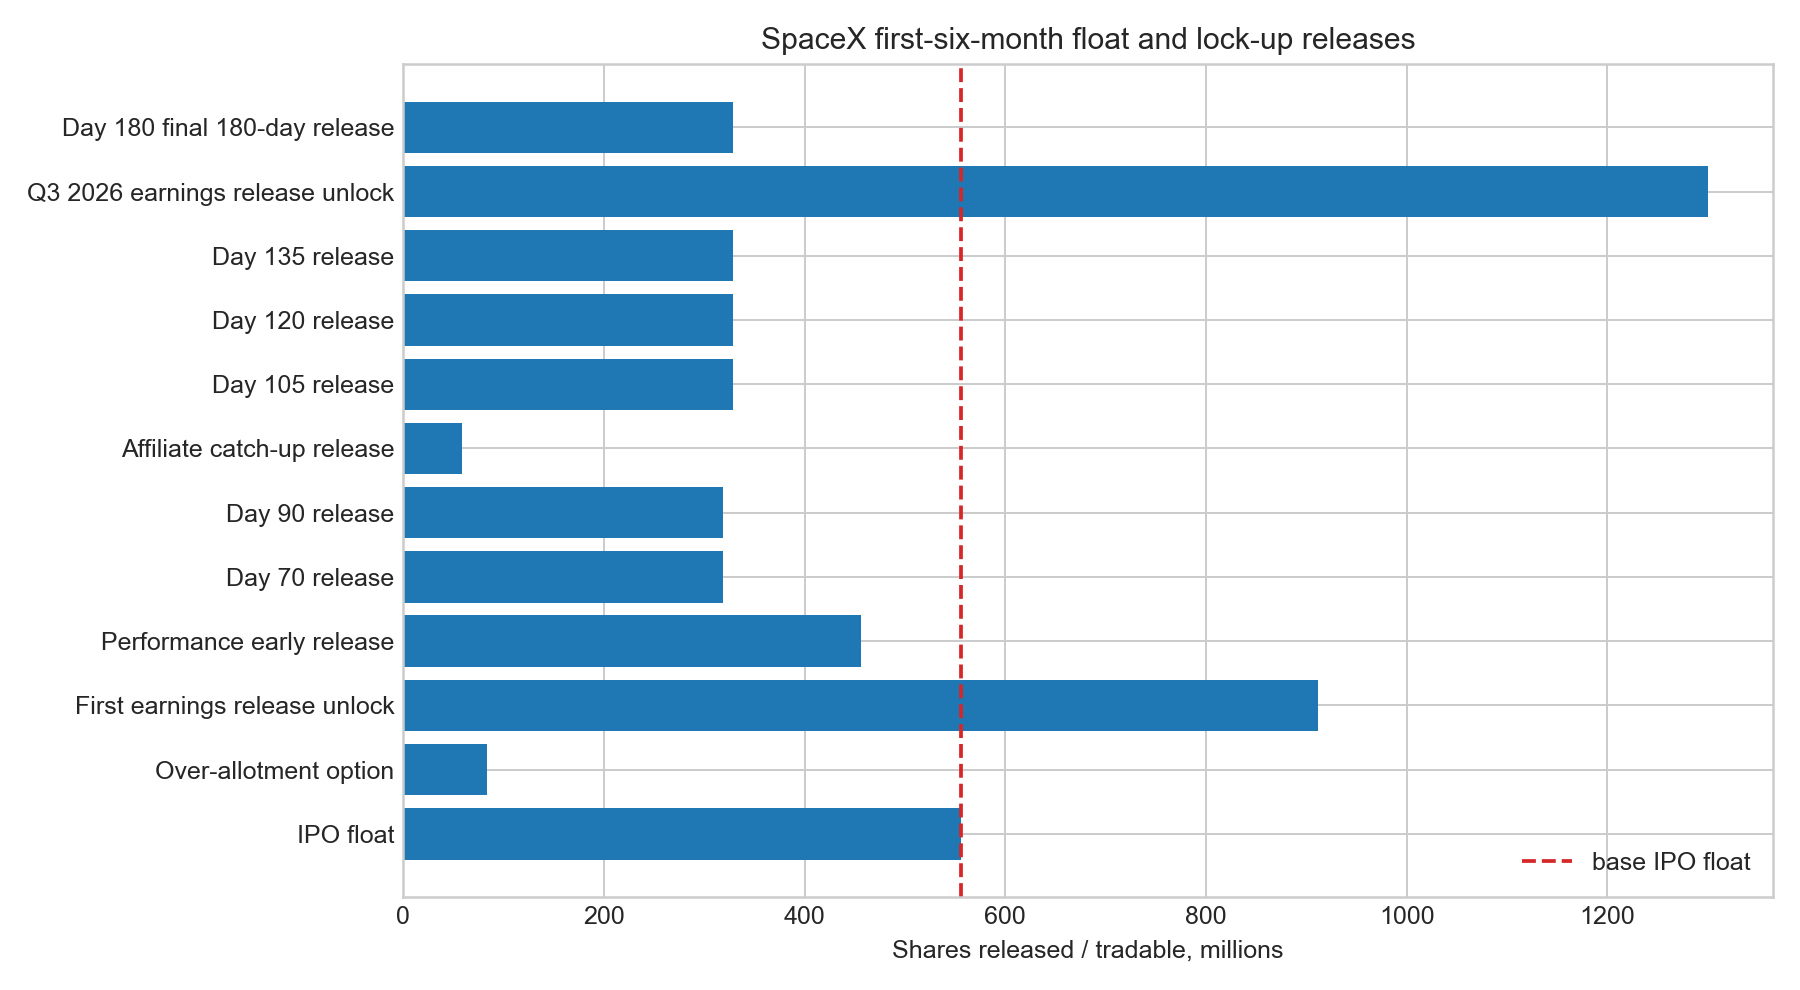
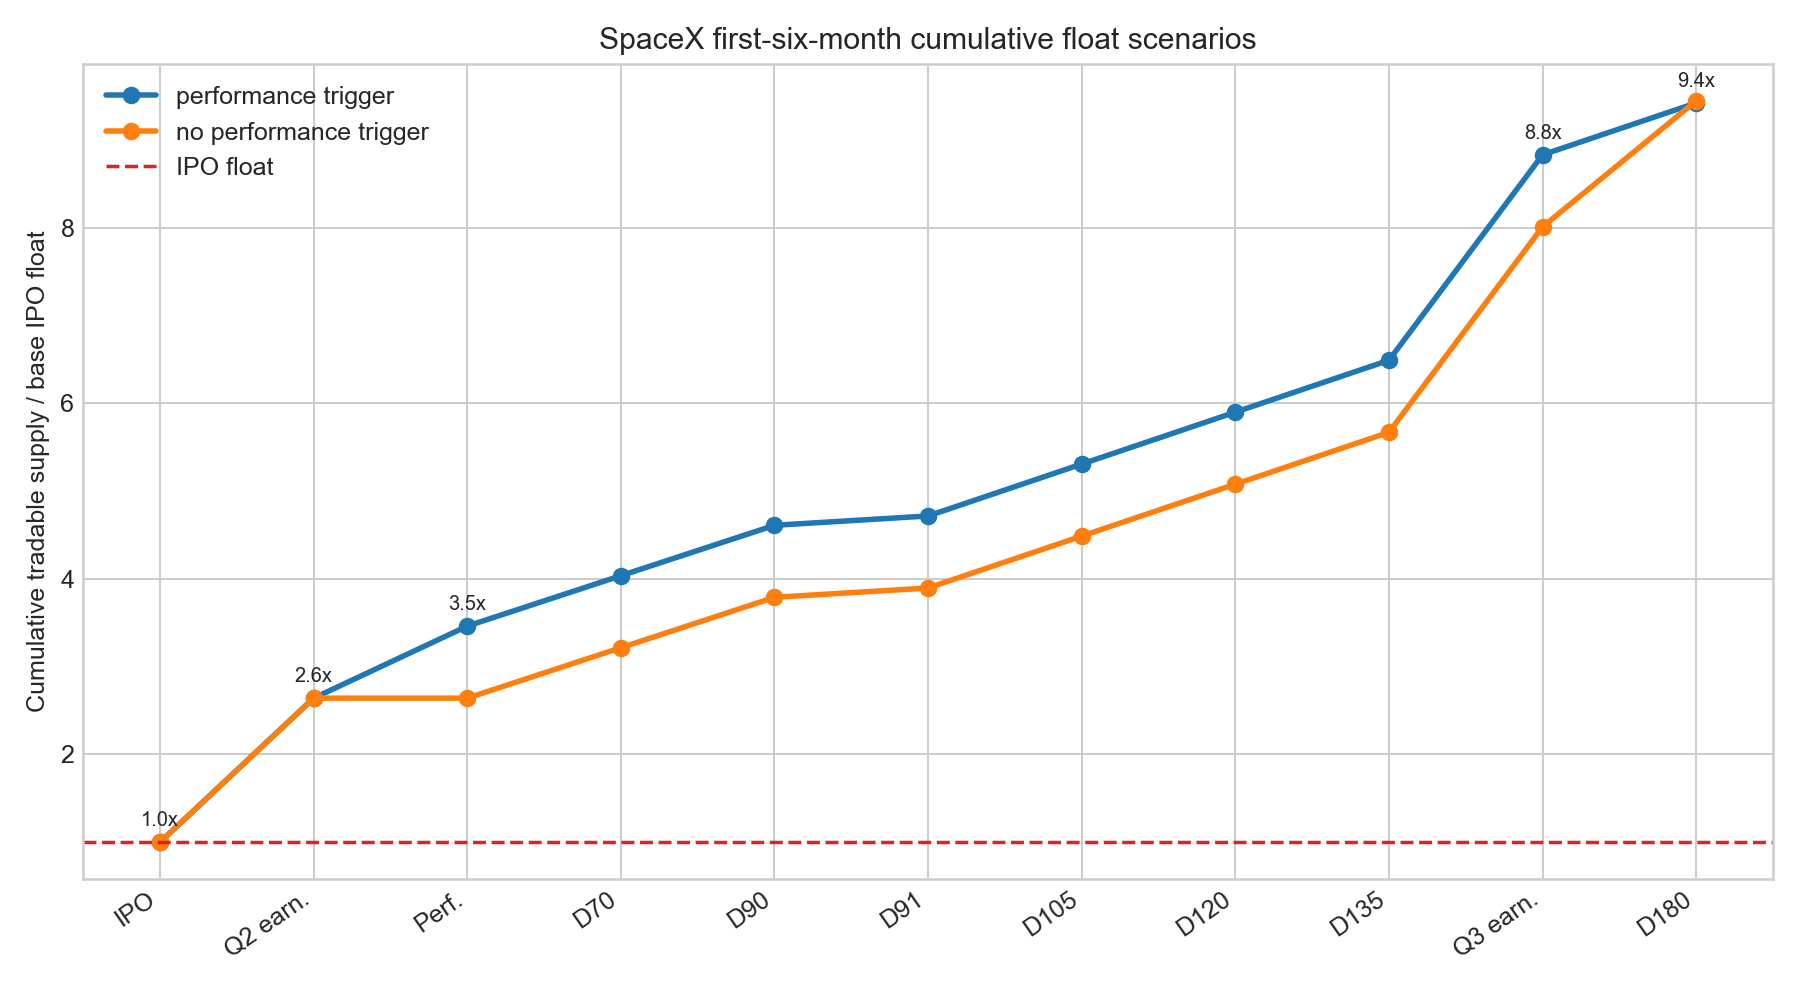
Clarify SpaceX lock-up ratios

diff --git a/24-spacex-ipo-quality-model/build_model.py b/24-spacex-ipo-quality-model/build_model.py
@@ -26,6 +26,9 @@ IPO_PRICE = 135.00
 POST_A_M = 7380.196910
 POST_B_M = 5695.668265
 POST_TOTAL_M = POST_A_M + POST_B_M
+LOCKUP_180_DAY_POOL_M = 4557.5
+EXTENDED_LOCKUP_EX_MUSK_POOL_M = 1759.5
+MUSK_LOCKUP_M = 6400.0
 US_MARKET_HOLIDAYS_2026 = {
     date(2026, 6, 19),  # Juneteenth
     date(2026, 7, 3),  # Independence Day observed
@@ -251,7 +254,151 @@ lockup_calendar = pd.DataFrame(
     lockup_rows,
     columns=["order", "event", "timing", "model_date_if_prospectus_2026_06_11", "shares_released_m", "pool", "percent_of_base_ipo_float", "condition", "inside_first_6_months"],
 )
+lockup_calendar["release_x_base_ipo_float"] = lockup_calendar["shares_released_m"] / IPO_FLOAT_M
+lockup_calendar["release_pct_basic_common"] = lockup_calendar["shares_released_m"] / POST_TOTAL_M * 100
+lockup_calendar["release_pct_post_class_a"] = lockup_calendar["shares_released_m"] / POST_A_M * 100
+lockup_calendar["release_pct_relevant_pool"] = pd.NA
+lockup_calendar.loc[lockup_calendar["pool"].str.contains("180-day", case=False), "release_pct_relevant_pool"] = (
+    lockup_calendar.loc[lockup_calendar["pool"].str.contains("180-day", case=False), "shares_released_m"] / LOCKUP_180_DAY_POOL_M * 100
+)
+lockup_calendar.loc[lockup_calendar["pool"].str.contains("extended", case=False), "release_pct_relevant_pool"] = (
+    lockup_calendar.loc[lockup_calendar["pool"].str.contains("extended", case=False), "shares_released_m"] / EXTENDED_LOCKUP_EX_MUSK_POOL_M * 100
+)
+lockup_calendar.loc[lockup_calendar["pool"].str.contains("Musk", case=False), "release_pct_relevant_pool"] = (
+    lockup_calendar.loc[lockup_calendar["pool"].str.contains("Musk", case=False), "shares_released_m"] / MUSK_LOCKUP_M * 100
+)
 write(lockup_calendar, "lockup_calendar")
+
+
+lockup_supply_summary = pd.DataFrame(
+    [
+        (
+            "Immediate IPO float",
+            IPO_FLOAT_M,
+            IPO_FLOAT_M / IPO_FLOAT_M,
+            IPO_FLOAT_M / POST_TOTAL_M * 100,
+            IPO_FLOAT_M / POST_A_M * 100,
+            "Tradable at listing unless purchased by affiliates; this is the denominator for all unlock multiples.",
+        ),
+        (
+            "Over-allotment option",
+            83.333333,
+            83.333333 / IPO_FLOAT_M,
+            83.333333 / (POST_TOTAL_M + 83.333333) * 100,
+            83.333333 / (POST_A_M + 83.333333) * 100,
+            "Optional primary issuance, not a lock-up release. If exercised, immediate float rises to 638.9M shares.",
+        ),
+        (
+            "180-day lock-up pool before affiliate timing",
+            LOCKUP_180_DAY_POOL_M,
+            LOCKUP_180_DAY_POOL_M / IPO_FLOAT_M,
+            LOCKUP_180_DAY_POOL_M / POST_TOTAL_M * 100,
+            LOCKUP_180_DAY_POOL_M / POST_A_M * 100,
+            "Approximate pool inferred from S-1/A release percentages; releases are staged across Q2 earnings, day 70, day 90, day 105, day 120, day 135, Q3 earnings and day 180.",
+        ),
+        (
+            "Base float plus 180-day pool",
+            IPO_FLOAT_M + LOCKUP_180_DAY_POOL_M,
+            (IPO_FLOAT_M + LOCKUP_180_DAY_POOL_M) / IPO_FLOAT_M,
+            (IPO_FLOAT_M + LOCKUP_180_DAY_POOL_M) / POST_TOTAL_M * 100,
+            (IPO_FLOAT_M + LOCKUP_180_DAY_POOL_M) / POST_A_M * 100,
+            "Approximate before the 59.1M affiliate catch-up timing line; this is the clean first-six-month supply scale.",
+        ),
+        (
+            "Extended lock-up excluding Musk",
+            EXTENDED_LOCKUP_EX_MUSK_POOL_M,
+            EXTENDED_LOCKUP_EX_MUSK_POOL_M / IPO_FLOAT_M,
+            EXTENDED_LOCKUP_EX_MUSK_POOL_M / POST_TOTAL_M * 100,
+            EXTENDED_LOCKUP_EX_MUSK_POOL_M / POST_A_M * 100,
+            "Post-180-day releases beginning around Q4 2026 earnings, excluding Musk.",
+        ),
+        (
+            "Musk 366-day lock-up",
+            MUSK_LOCKUP_M,
+            MUSK_LOCKUP_M / IPO_FLOAT_M,
+            MUSK_LOCKUP_M / POST_TOTAL_M * 100,
+            MUSK_LOCKUP_M / POST_A_M * 100,
+            "Largest single overhang; no early release in the S-1/A lock-up schedule.",
+        ),
+        (
+            "All named lock-up overhang after IPO float",
+            LOCKUP_180_DAY_POOL_M + EXTENDED_LOCKUP_EX_MUSK_POOL_M + MUSK_LOCKUP_M,
+            (LOCKUP_180_DAY_POOL_M + EXTENDED_LOCKUP_EX_MUSK_POOL_M + MUSK_LOCKUP_M) / IPO_FLOAT_M,
+            (LOCKUP_180_DAY_POOL_M + EXTENDED_LOCKUP_EX_MUSK_POOL_M + MUSK_LOCKUP_M) / POST_TOTAL_M * 100,
+            (LOCKUP_180_DAY_POOL_M + EXTENDED_LOCKUP_EX_MUSK_POOL_M + MUSK_LOCKUP_M) / POST_A_M * 100,
+            "Potential supply overhang, not expected sale volume. Some Class B shares would need conversion before Class A trading.",
+        ),
+    ],
+    columns=["pool", "shares_m", "x_base_ipo_float", "pct_basic_common", "pct_post_class_a", "interpretation"],
+)
+write(lockup_supply_summary, "lockup_supply_summary")
+
+
+scenario_events = [
+    ("IPO float", "At offering", PROSPECTUS_DATE_ASSUMPTION.isoformat(), IPO_FLOAT_M, IPO_FLOAT_M, "Starting tradable Class A supply."),
+    ("First earnings release unlock", "Q2 2026 earnings window", "TBD - likely Aug 2026", 911.5, 911.5, "20% release from 180-day pool."),
+    ("Performance early release", "Q2 2026 earnings window", "TBD - likely Aug 2026", 455.8, 0.0, "Only in performance case: price at least 30% above IPO price for 5 of 10 trading days."),
+    ("Day 70 release", "70th day after prospectus", model_date(70), 319.0, 319.0, "7% release from 180-day pool."),
+    ("Day 90 release", "90th day after prospectus", model_date(90), 319.0, 319.0, "7% release from 180-day pool."),
+    ("Affiliate catch-up release", "91st day after prospectus", model_date(91), 59.1, 59.1, "Rule 144 timing catch-up; shown as incremental tradable supply, not a new percentage tranche."),
+    ("Day 105 release", "105th day after prospectus", model_date(105), 328.4, 328.4, "7% release from 180-day pool."),
+    ("Day 120 release", "120th day after prospectus", model_date(120), 328.4, 328.4, "7% release from 180-day pool."),
+    ("Day 135 release", "135th day after prospectus", model_date(135), 328.4, 328.4, "7% release from 180-day pool."),
+    ("Q3 2026 earnings release unlock", "Q3 2026 earnings window", "TBD - likely Nov 2026", 1300.0, 1300.0, "28% release from 180-day pool."),
+    ("Day 180 final release", "180th day after prospectus", model_date(180), 328.4, 797.6, "Final 180-day release is smaller if the performance release happened, larger if it did not."),
+]
+
+scenario_rows = []
+cumulative_perf = 0.0
+cumulative_no_perf = 0.0
+for order, (event, timing, model_day, incremental_perf, incremental_no_perf, note) in enumerate(scenario_events):
+    cumulative_perf += incremental_perf
+    cumulative_no_perf += incremental_no_perf
+    scenario_rows.append(
+        (
+            order,
+            event,
+            timing,
+            model_day,
+            incremental_perf,
+            incremental_perf / IPO_FLOAT_M,
+            cumulative_perf,
+            cumulative_perf / IPO_FLOAT_M,
+            cumulative_perf / POST_TOTAL_M * 100,
+            cumulative_perf / POST_A_M * 100,
+            incremental_no_perf,
+            incremental_no_perf / IPO_FLOAT_M,
+            cumulative_no_perf,
+            cumulative_no_perf / IPO_FLOAT_M,
+            cumulative_no_perf / POST_TOTAL_M * 100,
+            cumulative_no_perf / POST_A_M * 100,
+            note,
+        )
+    )
+
+lockup_first_6m_scenarios = pd.DataFrame(
+    scenario_rows,
+    columns=[
+        "order",
+        "event",
+        "timing",
+        "model_date_if_prospectus_2026_06_11",
+        "incremental_perf_case_m",
+        "incremental_perf_case_x_ipo_float",
+        "cumulative_perf_case_m",
+        "cumulative_perf_case_x_ipo_float",
+        "cumulative_perf_case_pct_basic_common",
+        "cumulative_perf_case_pct_post_class_a",
+        "incremental_no_perf_case_m",
+        "incremental_no_perf_case_x_ipo_float",
+        "cumulative_no_perf_case_m",
+        "cumulative_no_perf_case_x_ipo_float",
+        "cumulative_no_perf_case_pct_basic_common",
+        "cumulative_no_perf_case_pct_post_class_a",
+        "note",
+    ],
+)
+write(lockup_first_6m_scenarios, "lockup_first_6m_scenarios")
 
 
 quality_scores = pd.DataFrame(
@@ -564,13 +711,32 @@ write(excluded_comps, "excluded_comps")
 plt.style.use("seaborn-v0_8-whitegrid")
 
 fig, ax = plt.subplots(figsize=(10, 5.5))
-plot_df = lockup_calendar[lockup_calendar["inside_first_6_months"]].copy()
-plot_df = plot_df[~plot_df["event"].str.contains("no performance", case=False)]
-ax.barh(plot_df["event"], plot_df["shares_released_m"], color="#1f77b4")
-ax.axvline(IPO_FLOAT_M, color="#d62728", linestyle="--", linewidth=1.5, label="base IPO float")
-ax.set_xlabel("Shares released / tradable, millions")
-ax.set_title("SpaceX first-six-month float and lock-up releases")
-ax.legend(loc="lower right")
+plot_df = lockup_first_6m_scenarios.copy()
+labels = [
+    "IPO",
+    "Q2 earn.",
+    "Perf.",
+    "D70",
+    "D90",
+    "D91",
+    "D105",
+    "D120",
+    "D135",
+    "Q3 earn.",
+    "D180",
+]
+x = range(len(plot_df))
+ax.plot(x, plot_df["cumulative_perf_case_x_ipo_float"], marker="o", linewidth=2.2, label="performance trigger")
+ax.plot(x, plot_df["cumulative_no_perf_case_x_ipo_float"], marker="o", linewidth=2.2, label="no performance trigger")
+ax.axhline(1.0, color="#d62728", linestyle="--", linewidth=1.4, label="IPO float")
+ax.set_xticks(list(x))
+ax.set_xticklabels(labels, rotation=35, ha="right")
+ax.set_ylabel("Cumulative tradable supply / base IPO float")
+ax.set_title("SpaceX first-six-month cumulative float scenarios")
+ax.legend(loc="upper left")
+for idx in [0, 1, 2, 9, 10]:
+    y_val = plot_df.loc[idx, "cumulative_perf_case_x_ipo_float"]
+    ax.text(idx, y_val + 0.18, f"{y_val:.1f}x", ha="center", fontsize=8)
 fig.tight_layout()
 fig.savefig(ROOT / "fig1_first_6m_float_unlocks.png", dpi=180)
 plt.close(fig)
@@ -640,6 +806,22 @@ fig.tight_layout()
 fig.savefig(ROOT / "fig5_study15_base_rate_bridge.png", dpi=180)
 plt.close(fig)
 
+fig, ax = plt.subplots(figsize=(10, 5.5))
+pool_plot = lockup_supply_summary[lockup_supply_summary["pool"].isin([
+    "Immediate IPO float",
+    "180-day lock-up pool before affiliate timing",
+    "Extended lock-up excluding Musk",
+    "Musk 366-day lock-up",
+])].copy()
+ax.barh(pool_plot["pool"], pool_plot["x_base_ipo_float"], color=["#1f77b4", "#ff7f0e", "#7f7f7f", "#d62728"])
+ax.set_xlabel("Shares / base IPO float")
+ax.set_title("Lock-up pools as multiples of the IPO float")
+for idx, row in pool_plot.reset_index(drop=True).iterrows():
+    ax.text(row["x_base_ipo_float"] + 0.2, idx, f"{row['x_base_ipo_float']:.1f}x", va="center")
+fig.tight_layout()
+fig.savefig(ROOT / "fig6_lockup_pool_ratios.png", dpi=180)
+plt.close(fig)
+
 
 workbook_path = ROOT / "spacex_ipo_quality_model.xlsx"
 with pd.ExcelWriter(workbook_path, engine="openpyxl") as writer:
@@ -648,6 +830,8 @@ with pd.ExcelWriter(workbook_path, engine="openpyxl") as writer:
         "offering_math",
         "shareholder_ratios",
         "lockup_calendar",
+        "lockup_supply_summary",
+        "lockup_first_6m_scenarios",
         "quality_scores",
         "comp_universe",
         "comp_ipo_performance",
@@ -675,10 +859,12 @@ with pd.ExcelWriter(workbook_path, engine="openpyxl") as writer:
     ws["A8"] = "Musk combined voting power"
     ws["B8"] = "84.4% after offering per S-1/A table"
     ws["A9"] = "First-six-month issue"
-    ws["B9"] = "IPO float scarcity can support the tape, but unlock waves are multiples of IPO float."
+    ws["B9"] = "IPO float scarcity can support the tape, but cumulative tradable supply reaches about 9.4x IPO float by day 180 in both release scenarios."
     ws["A10"] = "Nasdaq-100 path"
     ws["B10"] = "Fast Entry can evaluate a mega IPO on trading day 7 and typically add after trading day 15; low-float weight is capped at 3x free float."
     ws["A11"] = "S&P 500 path"
     ws["B11"] = "No mega-cap fast track: 12-month IPO seasoning, positive GAAP income screens and IWF/liquidity screens remain."
+    ws["A12"] = "Day-180 lock-up ratio"
+    ws["B12"] = "Performance case: 5.23B shares / 9.42x IPO float / 40.0% of basic shares. No-performance case: 5.25B shares / 9.44x / 40.1%."
 
 print(f"Wrote {workbook_path}")

diff --git a/24-spacex-ipo-quality-model/README.md b/24-spacex-ipo-quality-model/README.md
@@ -2,7 +2,7 @@
 
 **Question.** Does the SpaceX IPO setup justify participating once free float, lock-ups, control, underwriters, index inclusion rules and high-quality IPO comps are screened honestly?
 
-**Finding.** **Trade-only / wait-for-unlock bias.** Study 15 gives the base rate: chasing IPOs from the day-1 close has been a losing trade, with a **-28.4%** median one-year excess return versus SPY and only **19%** beating SPY. SpaceX deserves a better filter than the broad IPO bucket, but the filtered large-IPO comp set still warns against complacency: its median six-month return from first close is about **-14.7%**. SpaceX is exceptional on management, underwriting, scale and scarcity. The problem is entry quality, not company quality: the immediate public float is only **555.6 million Class A shares**, or **4.25%** of basic post-offering shares; Class B holds **88.5%** of voting power; Elon Musk holds about **49.1%** of basic economic ownership and **84.4%** of combined voting power; and the first-six-month lock-up releases are multiples of the IPO float. Connectivity is the quality anchor. AI/xAI/X is the expensive swing factor. At about **$1.77 trillion** basic market cap and a **$75 billion** raise, this is a scarcity/catalyst trade before it is a clean long-term entry.
+**Finding.** **Trade-only / wait-for-unlock bias.** Study 15 gives the base rate: chasing IPOs from the day-1 close has been a losing trade, with a **-28.4%** median one-year excess return versus SPY and only **19%** beating SPY. SpaceX deserves a better filter than the broad IPO bucket, but the filtered large-IPO comp set still warns against complacency: its median six-month return from first close is about **-14.7%**. SpaceX is exceptional on management, underwriting, scale and scarcity. The problem is entry quality, not company quality: the immediate public float is only **555.6 million Class A shares**, or **4.25%** of basic post-offering shares; by day 180, potential tradable supply reaches about **5.24 billion shares**, or **9.4x** the IPO float and roughly **40%** of basic shares. Class B holds **88.5%** of voting power; Elon Musk holds about **49.1%** of basic economic ownership and **84.4%** of combined voting power. Connectivity is the quality anchor. AI/xAI/X is the expensive swing factor. At about **$1.77 trillion** basic market cap and a **$75 billion** raise, this is a scarcity/catalyst trade before it is a clean long-term entry.
 
 > Research model only; not personal financial advice. Latest EDGAR check in the model is **2026-06-08**. No final **424B4** was found in SpaceX CIK `0001181412` recent filings as of that check.
 
@@ -14,7 +14,7 @@ The upgrade path is specific:
 
 1. Q2 2026 results confirm Starlink/connectivity revenue quality and cash conversion.
 2. Anthropic and Google compute ramps convert into visible revenue without adverse contract changes.
-3. The stock absorbs the first earnings release unlock, the 70/90/105/120/135-day releases, and Q3 earnings unlock.
+3. The stock absorbs the first earnings release unlock, the 70/90/105/120/135-day releases, Q3 earnings unlock and day-180 cleanup, when potential supply reaches about 9.4x the IPO float.
 4. Valuation resets from heroic sales multiples or the market receives enough proof that AI revenue is durable despite termination rights.
 5. The final 424B4 does not change offering size, lock-ups, control, risk factors or bookrunner economics in a negative way.
 
@@ -69,11 +69,34 @@ Free float here means legally tradable Class A supply, not fully diluted shares 
 | Directed-share program | 27.8m | Up to 5% of IPO shares; not subject to lock-up if purchased. |
 | Registration-rights overhang | ~12.2bn | Class A shares including Class B conversion shares with registration rights. |
 
-![First-six-month float and lock-up releases](fig1_first_6m_float_unlocks.png)
+![First-six-month cumulative float scenarios](fig1_first_6m_float_unlocks.png)
 
 ## Lock-Up Supply
 
-Scarcity is real at IPO, but it is temporary. The key first-six-month unlock events are:
+Scarcity is real at IPO, but it is temporary. The lock-up analysis needs three separate ratios:
+
+1. **Incremental release / IPO float:** how large each new release is versus the 555.6m-share IPO float.
+2. **Cumulative potential supply / IPO float:** how much supply could be tradable after each release.
+3. **Cumulative potential supply / basic shares:** how much of the post-offering common base that potential supply represents.
+
+These are **eligibility and supply-overhang ratios**, not sale forecasts. They do not mean every released share will be sold. Some shares may be affiliate-held, and some Class B exposure would need conversion before Class A trading.
+
+### Pool Ratios
+
+| Pool | Shares | x IPO float | % basic shares | % post-offering Class A | Interpretation |
+|---|---:|---:|---:|---:|---|
+| Immediate IPO float | 555.6m | 1.00x | 4.2% | 7.5% | Starting tradable supply. |
+| Over-allotment option | 83.3m | 0.15x | 0.6% | 1.1% | Optional primary issuance, not a lock-up release. |
+| 180-day lock-up pool | 4,557.5m | 8.20x | 34.9% | 61.8% | Main first-six-month overhang before affiliate timing. |
+| IPO float + 180-day pool | 5,113.1m | 9.20x | 39.1% | 69.3% | Clean first-six-month supply scale before 59.1m affiliate catch-up timing. |
+| Extended lock-up excluding Musk | 1,759.5m | 3.17x | 13.5% | 23.8% | Post-180-day releases beginning around Q4 2026 earnings. |
+| Musk 366-day lock-up | 6,400.0m | 11.52x | 48.9% | 86.7% | Largest single overhang; no early release in the S-1/A. |
+
+![Lock-up pools as multiples of the IPO float](fig6_lockup_pool_ratios.png)
+
+### First-Six-Month Scenario Bridge
+
+The performance trigger changes **timing**, not the rough day-180 supply endpoint. If SpaceX trades at least 30% above the IPO price for 5 of 10 trading days around the Q2 earnings window, 455.8m shares come out earlier and the day-180 cleanup is smaller. If not, the day-180 release is larger.
 
 | Event | Timing | Shares released | % of base IPO float | Condition |
 |---|---|---:|---:|---|
@@ -89,7 +112,21 @@ Scarcity is real at IPO, but it is temporary. The key first-six-month unlock eve
 | Q3 2026 earnings unlock | Likely Nov 2026 | 1,300.0m | 234.0% | 28% of 180-day pool. |
 | Day 180 | Model date 2026-12-08 | 328.4m or 797.6m | 59.1% or 143.6% | Lower if performance early release happened; higher if it did not. |
 
-Elon Musk's lock-up is the long-tail overhang: about **6.4 billion** shares, locked for **366 days** with no early release.
+| Milestone | Cumulative if performance trigger hits | % basic shares | Cumulative if no performance trigger | % basic shares |
+|---|---:|---:|---:|---:|
+| IPO float | 555.6m / 1.00x | 4.2% | 555.6m / 1.00x | 4.2% |
+| Q2 earnings unlock | 1,467.1m / 2.64x | 11.2% | 1,467.1m / 2.64x | 11.2% |
+| Performance early release | 1,922.9m / 3.46x | 14.7% | 1,467.1m / 2.64x | 11.2% |
+| Day 70 | 2,241.9m / 4.04x | 17.1% | 1,786.1m / 3.21x | 13.7% |
+| Day 90 | 2,560.9m / 4.61x | 19.6% | 2,105.1m / 3.79x | 16.1% |
+| Day 91 affiliate catch-up | 2,620.0m / 4.72x | 20.0% | 2,164.2m / 3.90x | 16.6% |
+| Day 105 | 2,948.4m / 5.31x | 22.5% | 2,492.6m / 4.49x | 19.1% |
+| Day 120 | 3,276.8m / 5.90x | 25.1% | 2,821.0m / 5.08x | 21.6% |
+| Day 135 | 3,605.2m / 6.49x | 27.6% | 3,149.4m / 5.67x | 24.1% |
+| Q3 earnings unlock | 4,905.2m / 8.83x | 37.5% | 4,449.4m / 8.01x | 34.0% |
+| Day 180 final release | 5,233.6m / 9.42x | 40.0% | 5,247.0m / 9.44x | 40.1% |
+
+The key read: **by day 180 the scarcity trade is mostly gone in either scenario.** The performance trigger just pulls some supply forward. Elon Musk's separate long-tail overhang is about **6.4 billion** shares, locked for **366 days** with no early release.
 
 ## Control
 
@@ -209,6 +246,8 @@ My optimized plan is therefore:
 - [Offering math](data/offering_math.csv)
 - [Shareholder ratios](data/shareholder_ratios.csv)
 - [Lock-up calendar](data/lockup_calendar.csv)
+- [Lock-up supply summary](data/lockup_supply_summary.csv)
+- [Lock-up first-six-month scenarios](data/lockup_first_6m_scenarios.csv)
 - [Quality scores](data/quality_scores.csv)
 - [Comp universe](data/comp_universe.csv)
 - [Comp IPO performance](data/comp_ipo_performance.csv)

diff --git a/README.md b/README.md
@@ -33,7 +33,7 @@ The data pipeline that produces these results is operated privately. This reposi
 | 21 | [A semiconductor risk-overlay model](21-semis-risk-model/) | Can a simple risk dial beat just holding the chips, or does it only make the ride smoother? | It only makes the ride smoother. Across 36 chip stocks (2022-26, ~5y daily) a trend dial that halves net-long when the basket loses its 200-day average or falls >10% off its 60-day high cuts the worst drawdown from -43% to -30% full-sample, and it does so in every market-cap bucket (small caps -51% to -38%, mega caps -46% to -34%) so the protection is not a mega-cap artifact. But the Sharpe edge over buy-and-hold is +0.07 with a bootstrap CI of [-0.20, +0.35] that straddles zero, and the scorecard de-risk value is -4pp (the wrong sign for a timer). Verdict: a validated drawdown-reducer, not alpha. Robust across nine floor/MA settings (Sharpe 1.18-1.29); the one honest dent is the 2023 chop, where whipsaw made drawdown 2pp worse. |
 | 22 | [Equity issuance as a market-top signal](22-equity-issuance-top-signal/) | Does a wave of equity issuance (IPOs + secondary offerings) mark an overpriced market and predict weak forward returns? | No usable timing signal — across 2001–2026 (Nasdaq Composite + SPY/QQQ/RSP) with survivorship-free EDGAR filing counts, 0 of 12 non-overlapping annual tests are significant. A faint IPO/SPAC froth tilt survives in direction (strongest in tech) but is ~half momentum and 2020–22-bound; the "SEOs invert" result is an EDGAR coverage-ratio artifact; mega-caps are net repurchasers. The real effect is cross-sectional (study 15), not market timing. |
 | 23 | [Robotics closed-end fund vs MSTR premium replay](23-robotics-fund-mstr-premium-replay/) | If a robotics closed-end fund trades at a persistent private-access premium and uses a MicroStrategy-style issuance flywheel, do early public investors benefit? | Conditional. A premium can be rational when the holdings are private and scarce, so the right test is whether NAV/share compounds before the premium fades. Using published MSTR/BTC/BOT price extracts plus Strategy BTC/share data, BOT starts around 5.1x reported NAV and its SEC schedule is concentrated in Apptronik, Figure AI and Dyna; early investors need holding-level NAV/share growth, durable multiple persistence, or both. Good sector, bad entry is the main failure mode. |
-| 24 | [SpaceX IPO quality model](24-spacex-ipo-quality-model/) | Does the SpaceX IPO setup justify participating once free float, lock-ups, control, underwriters, index inclusion rules and high-quality IPO comps are screened honestly? | Trade-only / wait-for-unlock bias. SpaceX is exceptional on team, underwriting, scale and scarcity, but immediate public float is only ~4.25% of basic shares, Class B keeps 88.5% voting power, Musk controls ~84.4%, and first-six-month unlock waves are multiples of IPO float. Nasdaq-100 fast entry can create early flow, but S&P 500 inclusion cannot under current rules because 12-month seasoning, profitability and IWF screens remain. Connectivity is the quality anchor; AI/xAI/X is the high-capex swing factor. |
+| 24 | [SpaceX IPO quality model](24-spacex-ipo-quality-model/) | Does the SpaceX IPO setup justify participating once free float, lock-ups, control, underwriters, index inclusion rules and high-quality IPO comps are screened honestly? | Trade-only / wait-for-unlock bias. SpaceX is exceptional on team, underwriting, scale and scarcity, but immediate public float is only ~4.25% of basic shares and potential tradable supply reaches ~5.24B shares by day 180, or ~9.4x the IPO float and ~40% of basic shares. Class B keeps 88.5% voting power, Musk controls ~84.4%, and Nasdaq-100 fast entry can create early flow, but S&P 500 inclusion cannot under current rules. Connectivity is the quality anchor; AI/xAI/X is the high-capex swing factor. |
 
 *Studies 07–17 form one connected program — is 2026 a 2000 echo for semiconductors, and which "edges" survive an honest test?*
 